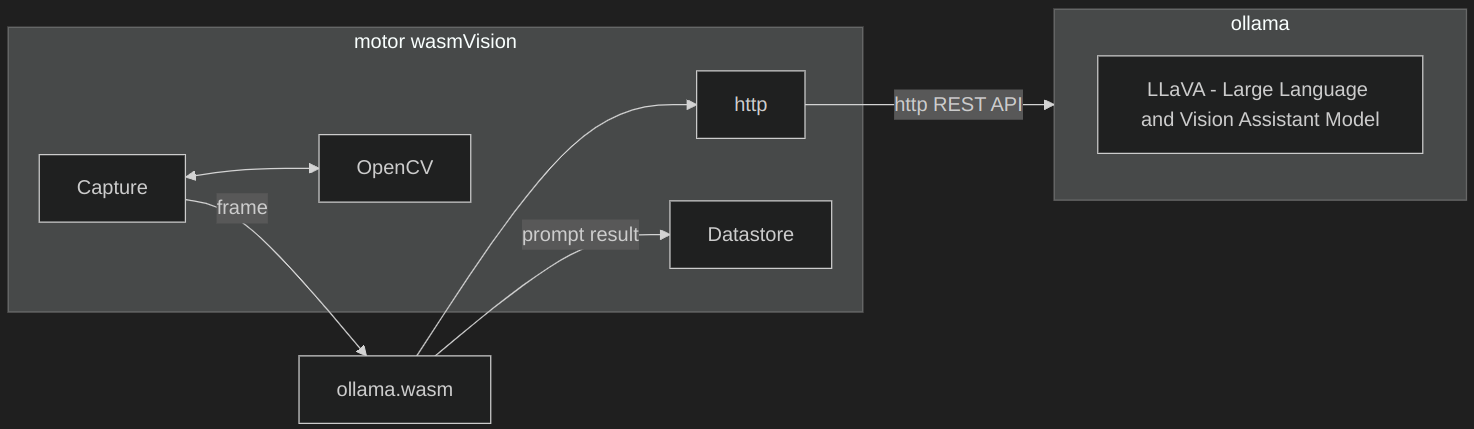
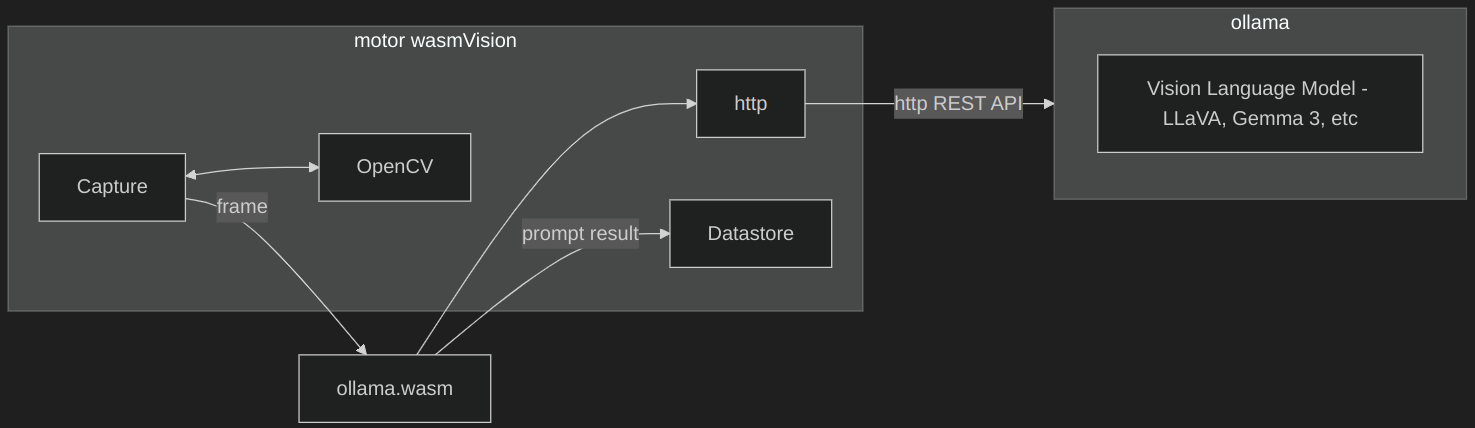
Further clarifications

diff --git a/index.html b/index.html
@@ -604,7 +604,14 @@ cargo build --target wasm32-unknown-unknown --release
 		</section>
 
 		<section>
-			<h2>Ollama</h2>
+			<h2>ollama.wasm</h2>
+		</section>
+
+		<section>
+			<div class="image-container">
+				<img src="images/ollama-logo.png">
+			</div>
+			<h3>Ollama</h3>
 		</section>
 
 		<section>

diff --git a/diagrams/captions-highlevel.md b/diagrams/captions-highlevel.md
@@ -23,7 +23,7 @@ Capture--frame-->ollama.wasm
 ollama.wasm-->http
 http--http REST API-->ollama
 subgraph ollama
-    llava[LLaVA - Large Language and Vision Assistant Model]
+    vlm[Vision Language Model - LLaVA, Gemma 3, etc]
 end
 ollama.wasm--prompt result-->Datastore
 
@@ -33,7 +33,7 @@ ollama.wasm--prompt result-->Datastore
 flowchart LR
 
 subgraph motor wasmVision
-    OpenCV<--DNN-->DNN[Mosaic - modelo de transferencia rápida de estilo neuronal]
+    OpenCV<--DNN-->DNN[Modelo de transferencia rápida de estilo neuronal - mosaic, pointilism, etc]
 end
 
 styletransfer.wasm-->OpenCV
@@ -66,13 +66,13 @@ captions.wasm--frame-->Output
 subgraph motor wasmVision
     Capture
     Capture<-->OpenCV
-    OpenCV<--DNN-->DNN[Mosaic - modelo de transferencia rápida de estilo neuronal]
+    OpenCV<--DNN-->DNN[Modelo de transferencia rápida de estilo neuronal - mosaic, pointilism, etc]
     http
     Datastore
     Output
 end
 subgraph ollama
-    llava[LLaVA - Large Language and Vision Assistant Model]
+    vlm[Vision Language Model - LLaVA, Gemma 3, etc]
 end
 
 Capture--frame-->ollama.wasm
